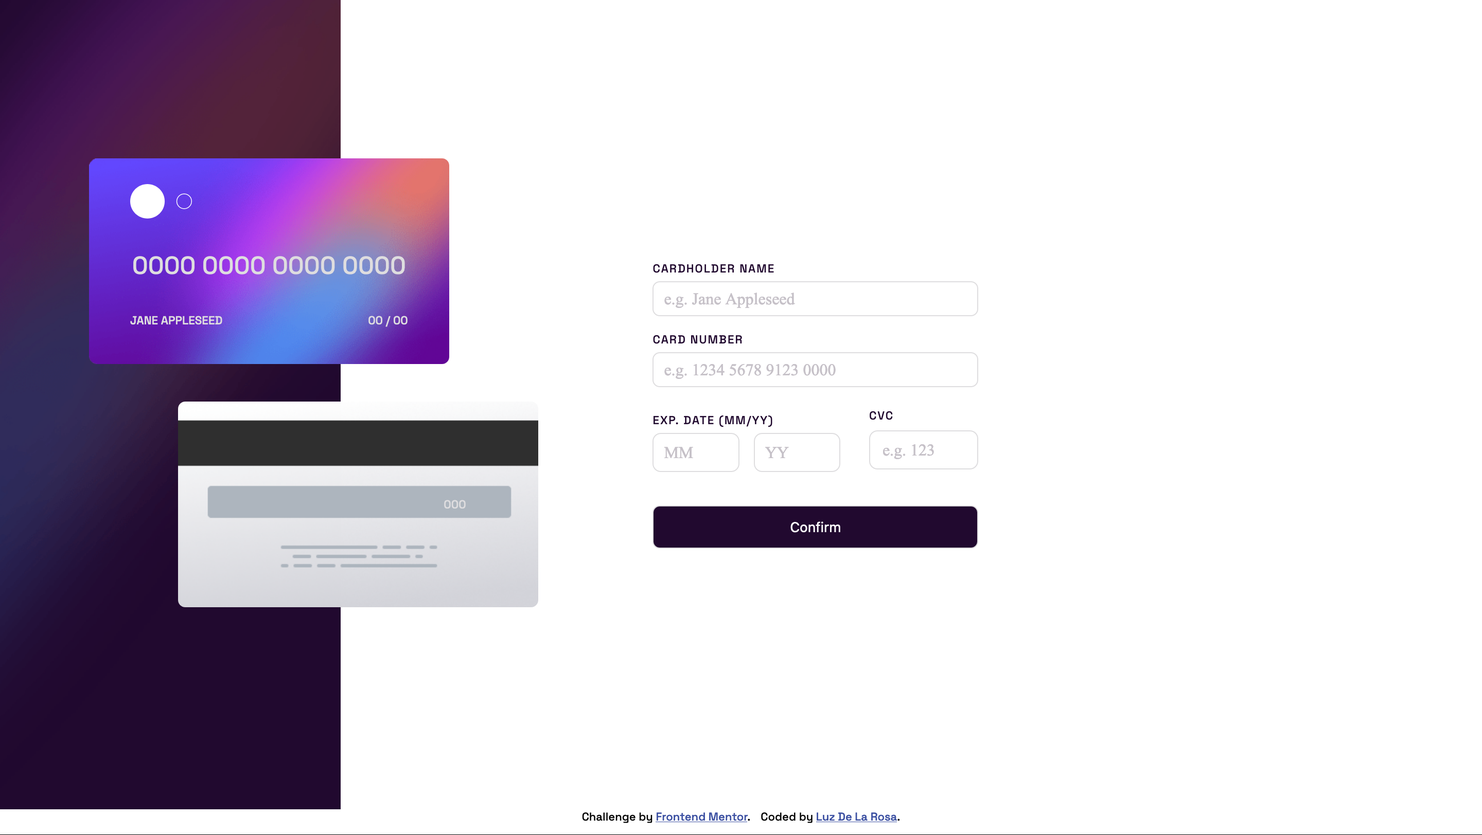
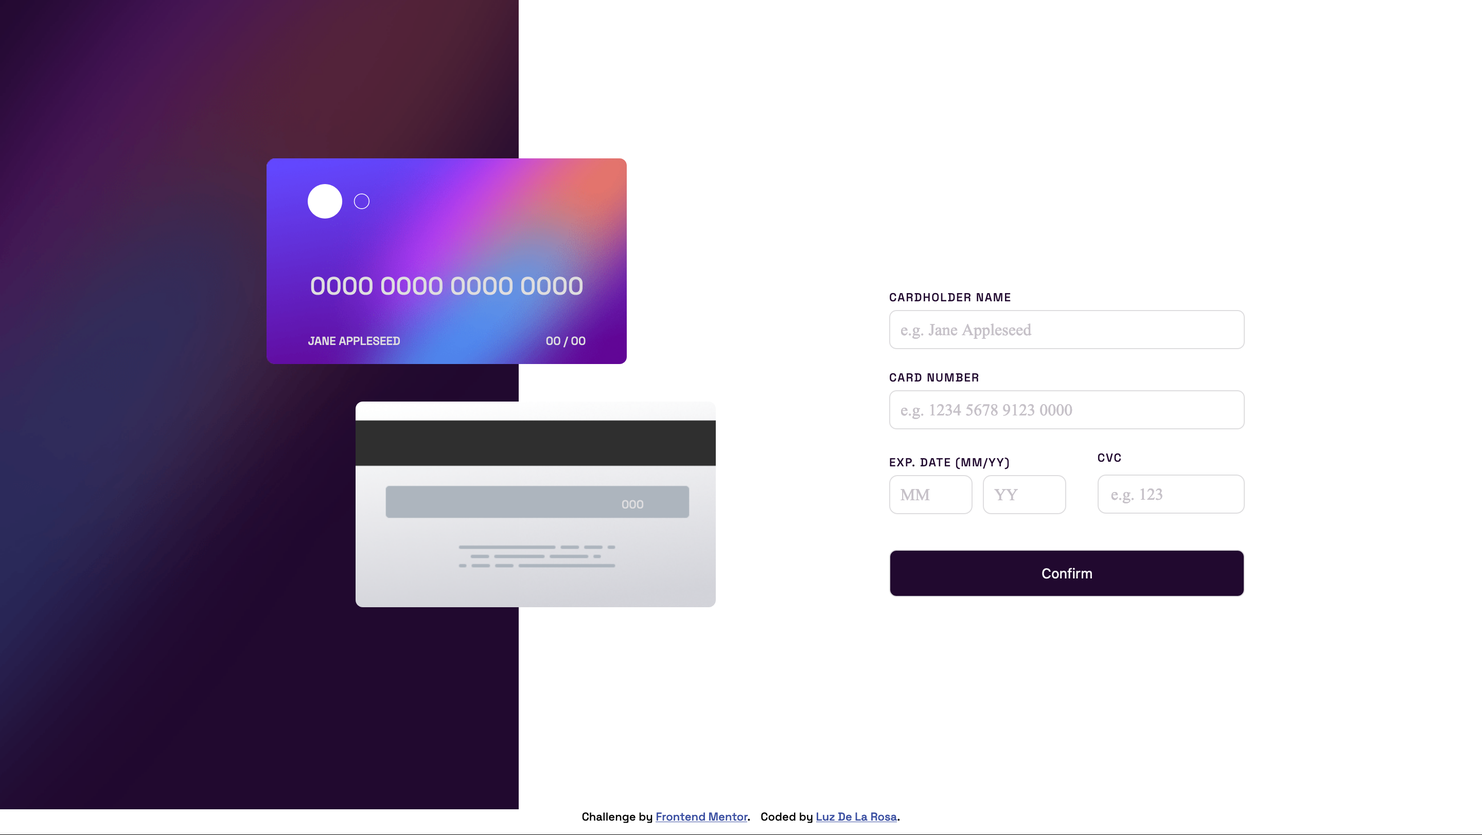
Closes #19: Fix presentation layout

Changed region(s): [[0.0625, 0.0, 0.8438, 0.9852], [0.75, 0.585, 0.7812, 0.6158]]

diff --git a/css/style.css b/css/style.css
@@ -1,1 +1,1 @@
-*{box-sizing:border-box;margin:0;padding:0}*:focus{outline:none}input::-webkit-outer-spin-button,input::-webkit-inner-spin-button{-webkit-appearance:none;margin:0}input[type=number]{-moz-appearance:textfield}input,button{border:1px solid #dedddf}body{font-family:"Space Grotesk",sans-serif}img{width:100%;display:block}.card-container .card-detail-container{width:100%;display:flex;justify-content:space-between;align-items:center}.card-container .card-left-bg{background-image:url("../images/bg-main-desktop.png");background-repeat:no-repeat;background-position:center center;background-size:cover;min-height:100vh;width:23%}.card-container .card-detail-form{width:57%;padding:75px 15px;margin-left:3%}input[type=text]:active,input[type=number]:active,input[type=text]:focus,input[type=number]:focus,input[type=text]:hover,input[type=number]:hover{border:1px solid purple;cursor:pointer}.card-detail-form .card-detail-form-item-long-width,.card-detail-form-exp-date div:nth-of-type(2){display:flex;flex-direction:column;justify-content:center;justify-items:center;margin-bottom:15px}.card-detail-form-item-long-width input,.confirm-button input{width:40%;padding:8px 10px;border-radius:7px}.confirm-button{margin-top:10px}.confirm-button input{padding:12px 10px;background-color:#21092f;color:#fff;cursor:pointer}::-moz-placeholder{font-family:"Times New Roman",Times,serif;color:#8e8593;opacity:.5;font-size:1rem}:-ms-input-placeholder{font-family:"Times New Roman",Times,serif;color:#8e8593;opacity:.5;font-size:1rem}::placeholder{font-family:"Times New Roman",Times,serif;color:#8e8593;opacity:.5;font-size:1rem}.card-detail-form-exp-date{display:flex;width:40%;margin-bottom:15px}.exp-inputs{width:40%;padding:10px;border-radius:8px;margin-right:10px}.exp-cvc-input{width:100%;padding:10px 12px;border-radius:8px;margin-right:10px;margin-top:2px}.card-template-back{position:absolute;bottom:25%;left:12%}.card-template-back .card-back-content-container{width:100%;position:relative}.card-template-back .card-back-content-container p{font-size:.7rem;position:absolute;right:20%;height:200px;display:flex;justify-content:center;align-items:center}.card-container{position:relative;color:#dedddf;text-transform:uppercase}.card-container .card-template-front{position:absolute;bottom:55%;left:6%}.card-container .card-template-front .card-front{width:350px;min-height:200px;background:url("../images/bg-card-front.png");background-repeat:no-repeat;background-size:cover;padding:5px 40px;border-radius:7px}.card-container .card-back{width:350px;min-height:200px;background:url("../images/bg-card-back.png");background-repeat:no-repeat;background-position:center center;background-size:cover;border-radius:7px}.card-front div:last-of-type{font-size:.7rem}.card-number{margin-bottom:30px;text-align:center;font-size:1.5em}.card-front div:last-child{display:flex;justify-content:space-between;margin-bottom:10px}.card-detail-form-item-label{display:inline-block;margin-bottom:5px;font-size:.7rem;letter-spacing:1px;color:#21092f}.logo{width:60px;margin-bottom:30px;padding-top:20px}.logo img{width:100%}.complete-state-desktop{width:77%;display:flex;flex-direction:column;align-items:center;color:#8e8593}.complete-state-desktop div:first-of-type{text-transform:none;text-align:center}.complete-state-desktop div:first-of-type .complete-state-icon{width:60px;margin:0 auto 15px auto}.complete-state-desktop div:first-of-type .complete-state-icon img{width:100%}.complete-state-desktop div:first-of-type h1{color:#21092f;letter-spacing:1.6px;margin-bottom:15px;font-weight:400}.complete-state-desktop div:first-of-type p{margin-bottom:15px;opacity:.8}.complete-state-desktop button{width:25%;padding:12px 10px;background-color:#21092f;color:#fff;border-radius:7px;margin-top:30px;cursor:pointer}.no-show{display:none}.error-message{color:red;text-transform:none;font-size:.6rem;margin-top:5px;opacity:.7}.error-message-input-border{border:1px solid red}.attribution{display:flex;justify-content:center;align-items:center;font-size:11px;margin-bottom:10px}.attribution p:first-of-type{margin-right:10px}.attribution a{color:#3e52a3}@media(max-width: 1201px){.card-container .card-left-bg{width:26%}.card-container .card-detail-form{width:50%;padding:75px 0;margin-left:10%}.card-detail-form-item-long-width input,.confirm-button input,.card-detail-form-exp-date{width:60%}}@media(max-width: 1001px){.card-container .card-left-bg{width:30%}.card-container .card-detail-form{width:40%}.card-detail-form-item-long-width input,.confirm-button input,.card-detail-form-exp-date{width:85%}.complete-state-desktop{width:55%}.complete-state-desktop button{width:45%}}@media(max-width: 860px){.card-container .card-detail-container{flex-direction:column}.card-container .card-detail-container .card-detail-form{width:55%;margin-left:0;padding:75px 0;margin-top:3rem}.card-container .card-left-bg{width:100%;min-height:28vh}.card-container .card-template-back{bottom:72%;left:30%}.card-container .card-template-front{bottom:59%;left:20%;z-index:1}.card-detail-form-item-long-width input,.confirm-button input{padding:12px;border-radius:10px;margin-bottom:1rem}.confirm-button{margin-top:1.5rem}.confirm-button input{padding:15px 10px;font-size:3vw;letter-spacing:1.6px}.complete-state-desktop{width:85%;margin:10rem 0}.complete-state-desktop button{width:55%;padding:15px 10px;border-radius:10px;font-size:2.5vw}.complete-state-desktop div:first-of-type .complete-state-icon{width:80px}}@media(max-width: 540px){.card-container .card-detail-container .card-detail-form{width:75%;margin-top:3rem}.card-container .card-left-bg{min-height:40vh}.card-container .card-template-back{bottom:73%;left:20%}.card-container .card-template-front{bottom:60%;left:6%}.card-detail-form-item-long-width input,.confirm-button input{padding:12px 10px;border-radius:10px;margin-bottom:20px}.confirm-button{margin-top:10px}.confirm-button input{padding:20px 10px;font-size:3.5vw;letter-spacing:1.6px}.complete-state-desktop{width:100%}.complete-state-desktop button{width:60%}}@media(max-width: 460px){.card-container .card-detail-container .card-detail-form{width:90%;margin-top:5rem;margin-left:2rem}.card-container .card-left-bg{min-height:35vh}.card-container .card-template-back{left:16%;bottom:74%}.card-container .card-back{width:75%}.card-container .card-back p{font-size:3.5vw}.card-container .card-template-front{bottom:63%;left:3%}.card-container .card-template-front .card-front{width:100%;font-size:3.5vw;min-height:180px;padding:5px 25px}.complete-state-desktop button{width:65%}}@media(max-width: 380px){.card-container .card-detail-container .card-detail-form{width:90%;margin-left:1rem}.card-container .card-left-bg{min-height:30vh}.card-container .card-template-back{left:16%;bottom:78%}.card-container .card-back{width:80%;min-height:160px}.card-container .card-back p{font-size:4.5vw;height:160px}.card-container .card-template-front{width:80%;bottom:65%;left:3%}.card-container .card-template-front .card-front{width:100%;font-size:4vw;min-height:160px;padding:5px 25px}.card-detail-form-item-label{margin-bottom:10px}.card-detail-form-item-long-width input,.confirm-button input,.card-detail-form-exp-date{width:100%}.complete-state-desktop button{width:85%;font-size:3.5vw;padding:20px 10px}.logo{width:50px}}
+*{box-sizing:border-box;margin:0;padding:0}*:focus{outline:none}input::-webkit-outer-spin-button,input::-webkit-inner-spin-button{-webkit-appearance:none;margin:0}input[type=number]{-moz-appearance:textfield}input,button{border:1px solid #dedddf}body{font-family:"Space Grotesk",sans-serif}img{width:100%;display:block}.card-container .card-detail-container{width:100%;display:flex;justify-content:space-between;align-items:center}.card-container .card-left-bg{background-image:url("../images/bg-main-desktop.png");background-repeat:no-repeat;background-position:center center;background-size:cover;min-height:100vh;width:35%}.card-container .card-detail-form{width:50%;padding:75px 0 0 10%;margin-left:5%}input[type=text]:active,input[type=number]:active,input[type=text]:focus,input[type=number]:focus,input[type=text]:hover,input[type=number]:hover{border:1px solid purple;cursor:pointer}.card-detail-form .card-detail-form-item-long-width,.card-detail-form-exp-date div:nth-of-type(2){display:flex;flex-direction:column;justify-content:center;justify-items:center;margin-bottom:15px}.card-detail-form-item-long-width input,.confirm-button input{width:60%;padding:10px 10px;border-radius:7px}.confirm-button{margin-top:10px}.confirm-button input{padding:14px 10px;background-color:#21092f;color:#fff;cursor:pointer}::-moz-placeholder{font-family:"Times New Roman",Times,serif;color:#8e8593;opacity:.5;font-size:1rem}:-ms-input-placeholder{font-family:"Times New Roman",Times,serif;color:#8e8593;opacity:.5;font-size:1rem}::placeholder{font-family:"Times New Roman",Times,serif;color:#8e8593;opacity:.5;font-size:1rem}.card-detail-form-exp-date{display:flex;width:60%;margin-bottom:15px}.card-detail-form-exp-date div:first-of-type{width:90%}.card-detail-form-exp-date .card-detail-month-year{display:flex}.exp-inputs{width:100%;padding:10px;border-radius:8px;margin-right:10px}.exp-cvc-input{width:100%;padding:10px 12px;border-radius:8px;margin-right:10px;margin-top:4px}.card-template-back{position:absolute;bottom:25%;left:24%}.card-template-back .card-back-content-container{width:100%;position:relative}.card-template-back .card-back-content-container p{font-size:.7rem;position:absolute;right:20%;height:200px;display:flex;justify-content:center;align-items:center}.card-container{position:relative;color:#dedddf;text-transform:uppercase}.card-container .card-template-front{position:absolute;bottom:55%;left:18%}.card-container .card-template-front .card-front{width:350px;min-height:200px;background:url("../images/bg-card-front.png");background-repeat:no-repeat;background-size:cover;padding:5px 40px;border-radius:7px}.card-container .card-back{width:350px;min-height:200px;background:url("../images/bg-card-back.png");background-repeat:no-repeat;background-position:center center;background-size:cover;border-radius:7px}.card-front div:last-of-type{font-size:.7rem}.card-number{margin-bottom:30px;padding-top:20px;text-align:center;font-size:1.5em}.card-front div:last-child{display:flex;justify-content:space-between;margin-bottom:10px}.card-detail-form-item-label{display:inline-block;margin-bottom:5px;font-size:.7rem;letter-spacing:1px;color:#21092f}.logo{width:60px;margin-bottom:30px;padding-top:20px}.logo img{width:100%}.complete-state-desktop{width:77%;display:flex;flex-direction:column;align-items:center;color:#8e8593}.complete-state-desktop div:first-of-type{text-transform:none;text-align:center}.complete-state-desktop div:first-of-type .complete-state-icon{width:60px;margin:0 auto 15px auto}.complete-state-desktop div:first-of-type .complete-state-icon img{width:100%}.complete-state-desktop div:first-of-type h1{color:#21092f;letter-spacing:1.6px;margin-bottom:15px;font-weight:400}.complete-state-desktop div:first-of-type p{margin-bottom:15px;opacity:.8}.complete-state-desktop button{width:25%;padding:12px 10px;background-color:#21092f;color:#fff;border-radius:7px;margin-top:30px;cursor:pointer}.no-show{display:none}.error-message{color:red;text-transform:none;font-size:.6rem;margin-top:5px;opacity:.7}.error-message-input-border{border:1px solid red}.attribution{display:flex;justify-content:center;align-items:center;font-size:11px;margin-bottom:10px}.attribution p:first-of-type{margin-right:10px}.attribution a{color:#3e52a3}@media(max-width: 1201px){.card-container .card-left-bg{width:26%}.card-container .card-detail-form{width:50%;padding:75px 0;margin-left:10%}.card-detail-form-item-long-width input,.confirm-button input,.card-detail-form-exp-date{width:60%}}@media(max-width: 1001px){.card-container .card-left-bg{width:30%}.card-container .card-detail-form{width:40%}.card-detail-form-item-long-width input,.confirm-button input,.card-detail-form-exp-date{width:85%}.complete-state-desktop{width:55%}.complete-state-desktop button{width:45%}}@media(max-width: 860px){.card-container .card-detail-container{flex-direction:column}.card-container .card-detail-container .card-detail-form{width:55%;margin-left:0;padding:75px 0;margin-top:3rem}.card-container .card-left-bg{width:100%;min-height:28vh}.card-container .card-template-back{bottom:72%;left:30%}.card-container .card-template-front{bottom:59%;left:20%;z-index:1}.card-detail-form-item-long-width input,.confirm-button input{padding:12px;border-radius:10px;margin-bottom:1rem}.confirm-button{margin-top:1.5rem}.confirm-button input{padding:15px 10px;font-size:3vw;letter-spacing:1.6px}.complete-state-desktop{width:85%;margin:10rem 0}.complete-state-desktop button{width:55%;padding:15px 10px;border-radius:10px;font-size:2.5vw}.complete-state-desktop div:first-of-type .complete-state-icon{width:80px}}@media(max-width: 540px){.card-container .card-detail-container .card-detail-form{width:75%;margin-top:3rem}.card-container .card-left-bg{min-height:40vh}.card-container .card-template-back{bottom:73%;left:20%}.card-container .card-template-front{bottom:60%;left:6%}.card-detail-form-item-long-width input,.confirm-button input{padding:12px 10px;border-radius:10px;margin-bottom:20px}.confirm-button{margin-top:10px}.confirm-button input{padding:20px 10px;font-size:3.5vw;letter-spacing:1.6px}.complete-state-desktop{width:100%}.complete-state-desktop button{width:60%}}@media(max-width: 460px){.card-container .card-detail-container .card-detail-form{width:90%;margin-top:5rem;margin-left:2rem}.card-container .card-left-bg{min-height:35vh}.card-container .card-template-back{left:16%;bottom:74%}.card-container .card-back{width:80%}.card-container .card-back p{font-size:3.5vw}.card-container .card-template-front{width:80%;bottom:62%;left:3%}.card-container .card-template-front .card-front{width:100%;font-size:3.5vw;min-height:180px;padding:5px 25px}.complete-state-desktop button{width:65%}}@media(max-width: 380px){.card-container .card-detail-container .card-detail-form{width:90%;margin-left:1rem}.card-container .card-left-bg{min-height:30vh}.card-container .card-template-back{left:16%;bottom:78%}.card-container .card-back{width:80%;min-height:160px}.card-container .card-back p{font-size:4.5vw;height:160px}.card-container .card-template-front{width:80%;bottom:65%;left:3%}.card-container .card-template-front .card-front{width:100%;font-size:4vw;min-height:160px;padding:5px 25px}.card-detail-form-item-label{margin-bottom:10px}.card-detail-form-item-long-width input,.confirm-button input,.card-detail-form-exp-date{width:100%}.complete-state-desktop button{width:85%;font-size:3.5vw;padding:20px 10px}.logo{width:50px}}

diff --git a/script/script.js b/script/script.js
@@ -1,10 +1,12 @@
 // Get DOM Elements
 const form = document.querySelector("#id-card-form");
-const pErrorMessage = document.querySelector(".error-message");
-const inputCardNumberError = document.querySelector("#cardNumber");
-const inputCardExpMonth = document.querySelector("#cardExpMonth");
-const inputCardExpYear = document.querySelector("#cardExpYear");
-const inputCardVCV = document.querySelector("#cardCVC");
+const pCardNumberErrorMessage = document.querySelector(".cardNumberErrorMessage");
+const inputCardholderError = document.querySelector("#input-cardholder-name");
+const inputCardNumberError = document.querySelector("#input-card-number");
+const inputCardExpMonth = document.querySelector("#input-card-exp-month");
+const inputCardExpYear = document.querySelector("#input-card-exp-year");
+const inputCardVCV = document.querySelector("#input-card-cvc");
+const pCardholderNameErrorMessage = document.querySelector(".cardholderNameErrorMessage");
 const pExpDateError = document.querySelector(".cardExpDateErrorMessage");
 const pCardBackNumberError = document.querySelector(".card-back-number-Error-message");
 const pCompleteState = document.querySelector(".complete-state-desktop");
@@ -22,23 +24,44 @@ const areAllNumbers = (inputStr) => {
     return inputStr.split("").every(item => Number(item) >= 0);
 }
 
+// Validate cardholder input
+const validateCardholderName = (cardholderName) => {
+    let isValid;
+    if (cardholderName === "") {
+        isValid = false;
+        pCardholderNameErrorMessage.innerText = "Can't be blank";
+        inputCardholderError.classList.add("error-message-input-border");
+    } else {
+        isValid = true;
+    }
+
+    return isValid;
+}
+
 // Validate Card Numbers input
 const validateCardNumber = (cardNumber) => {
     let isAValidCard;
 
-    if (cardNumber.length >= 12 && cardNumber.length <= 16) {
-        const isValid = areAllNumbers(cardNumber);
-        if (isValid) {
-            isAValidCard = true;
+    if (cardNumber === "") {
+        isAValidCard = false;
+        pCardNumberErrorMessage.innerText = "Can't be blank";
+        inputCardNumberError.classList.add("error-message-input-border");
+    } else {
+
+        if (cardNumber.length === 15 || cardNumber.length === 16) {
+            const isValid = areAllNumbers(cardNumber);
+            if (isValid) {
+                isAValidCard = true;
+            } else {
+                isAValidCard = false;
+                pCardNumberErrorMessage.innerText = "Wrong format, numbers only";
+                inputCardNumberError.classList.add("error-message-input-border");
+            }
         } else {
             isAValidCard = false;
-            pErrorMessage.innerText = "Wrong format, numbers only";
+            pCardNumberErrorMessage.innerText = "Wrong format";
             inputCardNumberError.classList.add("error-message-input-border");
         }
-    } else {
-        isAValidCard = false;
-        pErrorMessage.innerText = "Wrong format";
-        inputCardNumberError.classList.add("error-message-input-border");
     }
 
     return isAValidCard;
@@ -109,7 +132,7 @@ const validateYear = (inputStr) => {
     return isAValidYear;
 }
 
-const alertEmptyField = (cardExpMonth, cardExpYear) => {
+const alertEmptyDateFields = (cardExpMonth, cardExpYear) => {
     let areAllFieldsFilled;
     if (cardExpMonth === "" && cardExpYear === "") {
         areAllFieldsFilled = false;
@@ -138,7 +161,7 @@ const validateExpDate = (cardExpMonth, cardExpYear) => {
     let isAValidMonth;
     let isAValidYear;
 
-    areAllFieldsFilled = alertEmptyField(cardExpMonth, cardExpYear);
+    areAllFieldsFilled = alertEmptyDateFields(cardExpMonth, cardExpYear);
 
     if (cardExpMonth.length > 0) {
         isAValidMonth = validateMonth(cardExpMonth);
@@ -176,6 +199,22 @@ const validateBackCardCode = (cardCVC) => {
 }
 
 // Display Cardholder information
+const formatCardNumber = (cardNumber) => {
+    const cardNumArr = cardNumber.split("");
+    const newArr = [];
+    let count = 0;
+
+    for (let i = 0; i < cardNumArr.length; i++) {
+        count++
+        newArr.push(cardNumArr[i]);
+        if (count === 4) {
+            newArr.push(" ");
+            count = 0;
+        }
+    }
+    return newArr.join("");
+}
+
 
 const displayCardholderInfo = (
     cardholderName,
@@ -187,7 +226,7 @@ const displayCardholderInfo = (
         pCardholderName.innerText = cardholderName;
     }
     if (cardNumber) {
-        pCardNumber.innerText = cardNumber;
+        pCardNumber.innerText = formatCardNumber(cardNumber);
     }
     if (cardExpMonth) {
         pExpMonth.innerText = cardExpMonth;
@@ -202,21 +241,22 @@ const displayCardholderInfo = (
 }
 
 const cleanInputFields = () => {
-    document.getElementById("cardholderName").value = "";
-    document.getElementById("cardNumber").value = "";
-    document.getElementById("cardExpMonth").value = "";
-    document.getElementById("cardExpYear").value = "";
-    document.getElementById("cardCVC").value = "";
+    document.getElementById("input-cardholder-name").value = "";
+    document.getElementById("input-card-number").value = "";
+    document.getElementById("input-card-exp-month").value = "";
+    document.getElementById("input-card-exp-year").value = "";
+    document.getElementById("input-card-cvc").value = "";
 }
 
 const showCompleteStateScreen = () => {
     // Get user information from inputs
-    const cardholderName = document.getElementById("cardholderName").value;
-    const cardNumber = document.getElementById("cardNumber").value;
-    const cardExpMonth = document.getElementById("cardExpMonth").value;
-    const cardExpYear = document.getElementById("cardExpYear").value;
-    const cardCVC = document.getElementById("cardCVC").value;
+    const cardholderName = document.getElementById("input-cardholder-name").value;
+    const cardNumber = document.getElementById("input-card-number").value;
+    const cardExpMonth = document.getElementById("input-card-exp-month").value;
+    const cardExpYear = document.getElementById("input-card-exp-year").value;
+    const cardCVC = document.getElementById("input-card-cvc").value;
 
+    validateCardholderName(cardholderName);
     validateCardNumber(cardNumber);
     validateExpDate(cardExpMonth, cardExpYear);
     validateBackCardCode(cardCVC);
@@ -241,7 +281,7 @@ const onSubmit = (event) => {
 const handleContinueButton = () => {
     pCompleteState.classList.add("no-show");
     form.classList.remove("no-show");
-    
+
 }
 
 form.addEventListener("submit", onSubmit);

diff --git a/index.html b/index.html
@@ -33,26 +33,28 @@
         </div>
         <form class="card-detail-form" id="id-card-form">
           <div class="card-detail-form-item card-detail-form-item-long-width">
-            <label for="cname" class="card-detail-form-item-label">CARDHOLDER NAME</label>
-            <input type="text" id="cardholderName" name="cname" placeholder="e.g. Jane Appleseed" required>
+            <label for="input-cardholder-name" class="card-detail-form-item-label">CARDHOLDER NAME</label>
+            <input type="text" id="input-cardholder-name" name="input-cardholder-name"
+              placeholder="e.g. Jane Appleseed">
+            <p class="cardholderNameErrorMessage error-message"></p>
           </div>
           <div class="card-detail-form-item card-detail-form-item-long-width">
-            <label for="cnumber" class="card-detail-form-item-label">CARD NUMBER</label>
-            <input type="text" id="cardNumber" name="cnumber" placeholder="e.g. 1234 5678 9123 0000">
-            <p class="error-message"></p>
+            <label for="input-card-number" class="card-detail-form-item-label">CARD NUMBER</label>
+            <input type="text" id="input-card-number" name="input-card-number" placeholder="e.g. 1234 5678 9123 0000">
+            <p class="cardNumberErrorMessage error-message"></p>
           </div>
           <div class="card-detail-form-item card-detail-form-exp-date">
             <div>
               <label class="card-detail-form-item-label">EXP. DATE (MM/YY)</label>
-              <div>
-                <input type="number" id="cardExpMonth" name="cmonth" placeholder="MM" class="exp-inputs">
-                <input type="number" id="cardExpYear" name="cyear" placeholder="YY" class="exp-inputs">
-                <p class="cardExpDateErrorMessage error-message"></p>
+              <div class="card-detail-month-year">
+                <input type="number" id="input-card-exp-month" name="card-month" placeholder="MM" class="exp-inputs">
+                <input type="number" id="input-card-exp-year" name="card-year" placeholder="YY" class="exp-inputs">
               </div>
+              <p class="cardExpDateErrorMessage error-message"></p>
             </div>
             <div>
               <label class="card-detail-form-item-label">CVC</label>
-              <input type="number" id="cardCVC" name="cbacknumber" placeholder="e.g. 123" class="exp-cvc-input">
+              <input type="number" id="input-card-cvc" name="cbacknumber" placeholder="e.g. 123" class="exp-cvc-input">
               <p class="card-back-number-Error-message error-message"></p>
             </div>
           </div>

diff --git a/scss/_main.scss b/scss/_main.scss
@@ -12,13 +12,13 @@
         background-position: center center;
         background-size: cover;
         min-height: 100vh;
-        width: 23%;
+        width: 35%;
     }
 
     .card-detail-form {
-        width: 57%;
-        padding: 75px 15px;
-        margin-left: 3%;
+        width: 50%;
+        padding: 75px 0 0 10%;
+        margin-left: 5%;
     }
 }
 
@@ -44,8 +44,8 @@ input[type="number"]:hover {
 
 .card-detail-form-item-long-width input,
 .confirm-button input {
-    width: 40%;
-    padding: 8px 10px;
+    width: 60%;
+    padding: 10px 10px;
     border-radius: 7px;
 }
 
@@ -53,7 +53,7 @@ input[type="number"]:hover {
     margin-top: 10px;
 
     input {
-        padding: 12px 10px;
+        padding: 14px 10px;
         background-color: $very-dark-violet;
         color: $white;
         cursor: pointer;
@@ -69,12 +69,20 @@ input[type="number"]:hover {
 
 .card-detail-form-exp-date {
     display: flex;
-    width: 40%;
+    width: 60%;
     margin-bottom: 15px;
+
+    div:first-of-type {
+        width: 90%;
+    }
+
+    .card-detail-month-year {
+        display: flex;
+    }
 }
 
 .exp-inputs {
-    width: 40%;
+    width: 100%;
     padding: 10px;
     border-radius: 8px;
     margin-right: 10px;
@@ -85,13 +93,13 @@ input[type="number"]:hover {
     padding: 10px 12px;
     border-radius: 8px;
     margin-right: 10px;
-    margin-top: 2px;
+    margin-top: 4px;
 }
 
 .card-template-back {
     position: absolute;
     bottom: 25%;
-    left: 12%;
+    left: 24%;
 
     .card-back-content-container {
         width: 100%;
@@ -117,7 +125,7 @@ input[type="number"]:hover {
     .card-template-front {
         position: absolute;
         bottom: 55%;
-        left: 6%;
+        left: 18%;
 
         .card-front {
             width: 350px;
@@ -149,6 +157,7 @@ input[type="number"]:hover {
 
 .card-number {
     margin-bottom: 30px;
+    padding-top: 20px;
     text-align: center;
     font-size: 1.5em;
 }

diff --git a/scss/_mediaQueries.scss b/scss/_mediaQueries.scss
@@ -182,7 +182,7 @@
         }
 
         .card-back {
-            width: 75%;
+            width: 80%;
 
             p {
                 font-size: 3.5vw;
@@ -190,7 +190,8 @@
         }
 
         .card-template-front {
-            bottom: 63%;
+            width: 80%;
+            bottom: 62%;
             left: 3%;
 
             .card-front {
